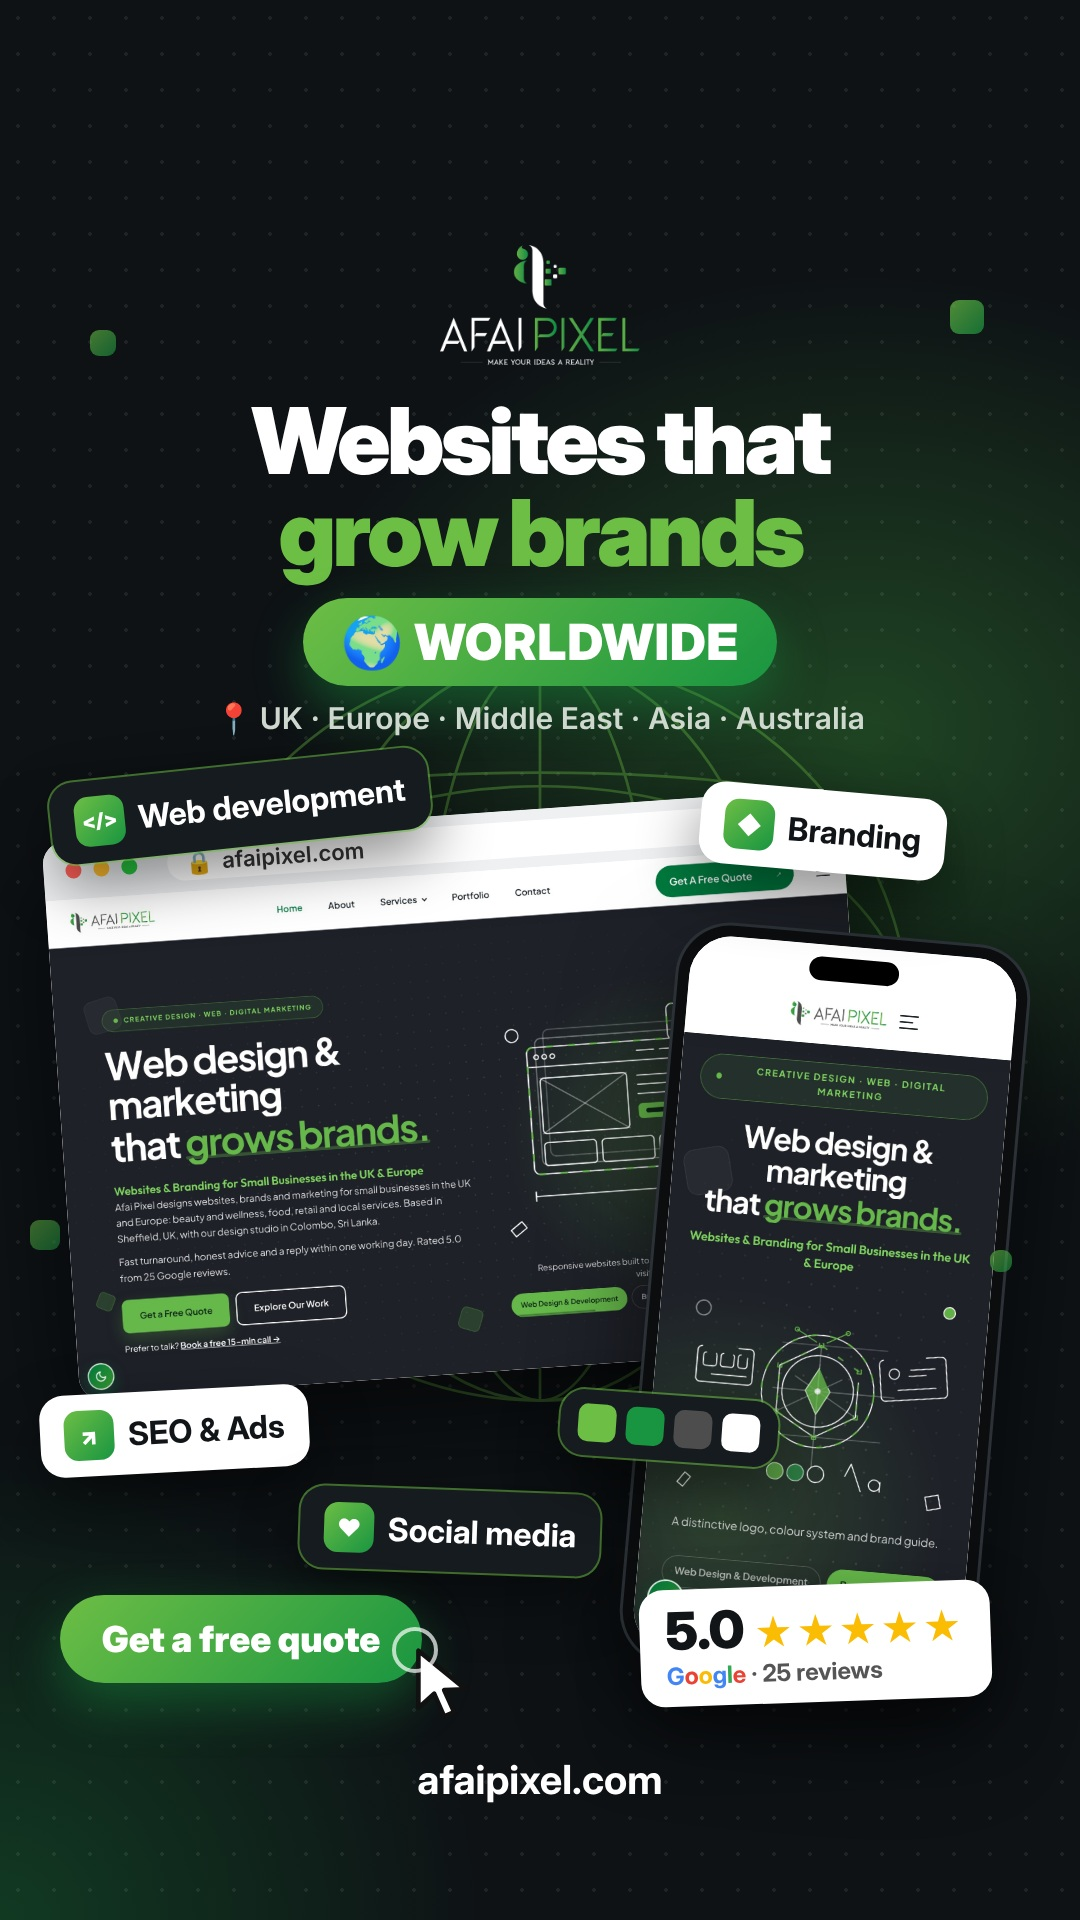
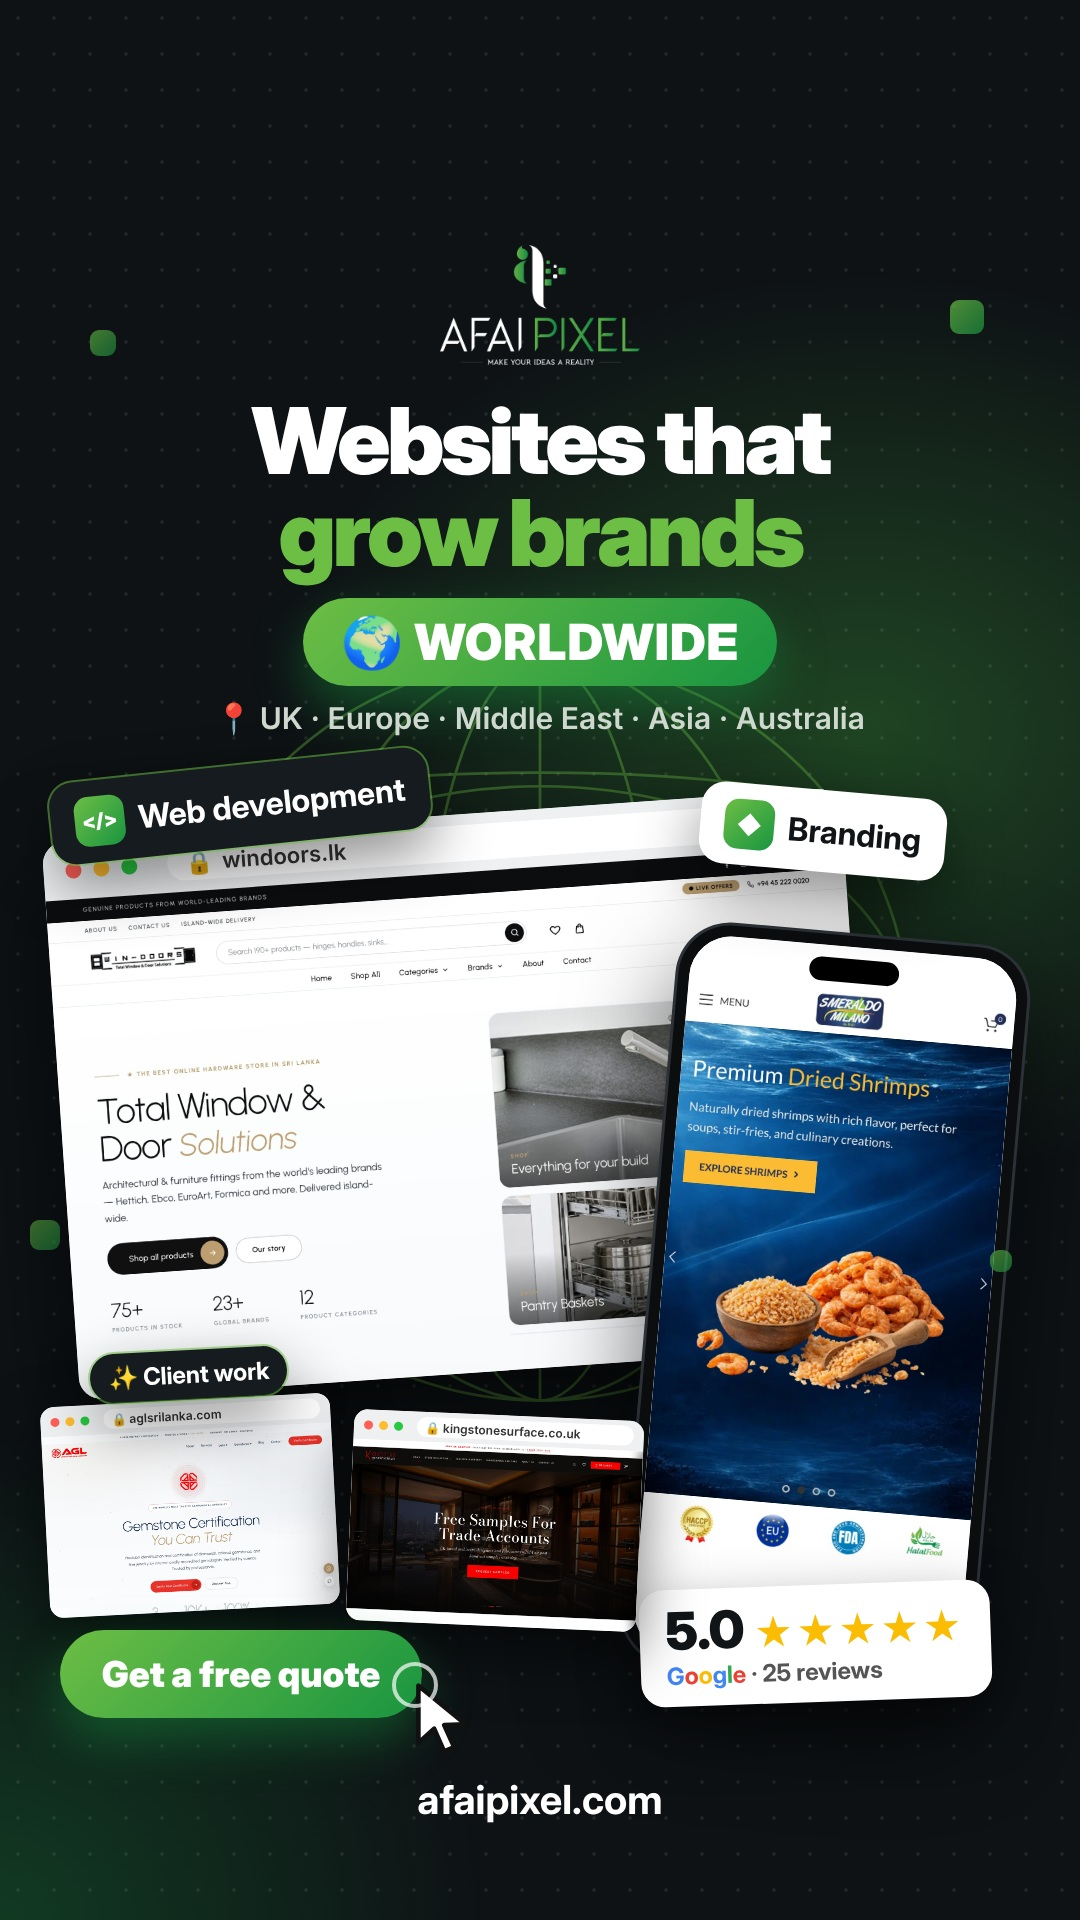
Cover: show client websites instead of afaipixel.com
Claude-Session: https://claude.ai/code/session_01TnfmFtVoRqk5z4wF8dQVU6

Changed region(s): [[0.0306, 0.4375, 0.9472, 0.9688]]

diff --git a/reel/src/cover.html b/reel/src/cover.html
@@ -42,9 +42,9 @@ body{width:1080px;height:1920px;overflow:hidden;font-family:IN,'Noto Color Emoji
 <div class="abs" style="left:60px;top:815px;width:800px;border-radius:22px;overflow:hidden;background:#fff;box-shadow:0 40px 100px rgba(0,0,0,.6);transform:rotate(-4deg)">
  <div style="height:58px;background:#eef0f2;display:flex;align-items:center;gap:12px;padding:0 22px">
   <span style="width:16px;height:16px;border-radius:50%;background:#ff5f57"></span><span style="width:16px;height:16px;border-radius:50%;background:#febc2e"></span><span style="width:16px;height:16px;border-radius:50%;background:#28c840"></span>
-  <span style="margin-left:18px;flex:1;height:36px;border-radius:18px;background:#fff;display:flex;align-items:center;gap:10px;padding:0 18px;font-weight:600;font-size:22px;color:#333"><span style="color:var(--g2)">🔒</span>afaipixel.com</span>
+  <span style="margin-left:18px;flex:1;height:36px;border-radius:18px;background:#fff;display:flex;align-items:center;gap:10px;padding:0 18px;font-weight:600;font-size:22px;color:#333"><span style="color:var(--g2)">🔒</span>windoors.lk</span>
  </div>
- <img src="assets/desktop.jpg" style="width:800px;display:block">
+ <img src="clients/wd_d.jpg" style="width:800px;display:block">
 </div>
 
 <!-- phone -->
@@ -52,28 +52,29 @@ body{width:1080px;height:1920px;overflow:hidden;font-family:IN,'Noto Color Emoji
  <div style="width:328px;height:718px;border-radius:42px;overflow:hidden;position:relative;background:#fff">
   <div style="position:absolute;top:0;left:0;right:0;height:42px;background:#fff;z-index:2"></div>
   <div style="position:absolute;top:12px;left:50%;width:90px;height:24px;margin-left:-45px;background:#000;border-radius:14px;z-index:3"></div>
-  <img src="assets/mobile_hero.jpg" style="position:absolute;top:42px;width:328px">
+  <img src="clients/sm_m.jpg" style="position:absolute;top:42px;width:328px">
  </div>
 </div>
 
 <!-- floating web elements -->
 <div class="card dk" style="left:50px;top:765px;transform:rotate(-6deg)"><span class="ic" style="font-size:20px">&lt;/&gt;</span>Web development</div>
 <div class="card" style="left:700px;top:790px;transform:rotate(5deg)"><span class="ic">◆</span>Branding</div>
-<div class="card" style="left:40px;top:1390px;transform:rotate(-3deg)"><span class="ic">↗</span>SEO &amp; Ads</div>
-<div class="card dk" style="left:300px;top:1490px;transform:rotate(2deg)"><span class="ic">♥</span>Social media</div>
 <div class="card" style="left:640px;top:1585px;transform:rotate(-2deg);flex-direction:column;align-items:flex-start;gap:4px;padding:16px 26px">
  <span style="font-size:52px;font-weight:900;line-height:1">5.0 <span style="color:#fbbc04;font-size:38px;letter-spacing:3px">★★★★★</span></span>
  <span style="font-size:24px;color:#555"><span style="color:#4285F4">G</span><span style="color:#EA4335">o</span><span style="color:#FBBC05">o</span><span style="color:#4285F4">g</span><span style="color:#34A853">l</span><span style="color:#EA4335">e</span> · 25 reviews</span>
 </div>
+<div class="abs" style="left:45px;top:1400px;width:290px;border-radius:14px;overflow:hidden;background:#fff;box-shadow:0 24px 60px rgba(0,0,0,.55);transform:rotate(-3deg)">
+ <div style="height:30px;background:#eef0f2;display:flex;align-items:center;gap:6px;padding:0 10px"><span style="width:9px;height:9px;border-radius:50%;background:#ff5f57"></span><span style="width:9px;height:9px;border-radius:50%;background:#febc2e"></span><span style="width:9px;height:9px;border-radius:50%;background:#28c840"></span><span style="margin-left:8px;flex:1;height:20px;border-radius:10px;background:#fff;font-size:12px;font-weight:600;color:#333;display:flex;align-items:center;padding:0 8px">🔒 aglsrilanka.com</span></div>
+ <img src="clients/agl_d.jpg" style="width:290px;display:block"></div>
+<div class="abs" style="left:350px;top:1415px;width:290px;border-radius:14px;overflow:hidden;background:#fff;box-shadow:0 24px 60px rgba(0,0,0,.55);transform:rotate(2.5deg)">
+ <div style="height:30px;background:#eef0f2;display:flex;align-items:center;gap:6px;padding:0 10px"><span style="width:9px;height:9px;border-radius:50%;background:#ff5f57"></span><span style="width:9px;height:9px;border-radius:50%;background:#febc2e"></span><span style="width:9px;height:9px;border-radius:50%;background:#28c840"></span><span style="margin-left:8px;flex:1;height:20px;border-radius:10px;background:#fff;font-size:12px;font-weight:600;color:#333;display:flex;align-items:center;padding:0 8px">🔒 kingstonesurface.co.uk</span></div>
+ <img src="clients/ks_d.jpg" style="width:290px;display:block"></div>
+<div class="card dk" style="left:90px;top:1350px;font-size:24px;padding:10px 18px;gap:8px;transform:rotate(-3deg);z-index:2">✨ Client work</div>
 <!-- cursor clicking a button -->
-<div class="abs" style="left:60px;top:1595px">
+<div class="abs" style="left:60px;top:1630px">
  <div style="display:inline-block;background:linear-gradient(135deg,var(--g1),var(--g3));color:#fff;font-weight:800;font-size:36px;padding:22px 42px;border-radius:999px;box-shadow:0 20px 50px rgba(25,149,65,.45)">Get a free quote</div>
  <svg style="position:absolute;left:352px;top:50px" width="70" height="80" viewBox="0 0 24 28"><path d="M2 2 L2 22 L7.5 17 L11 25 L14.5 23.5 L11 15.8 L18.5 15.5 Z" fill="#fff" stroke="#111" stroke-width="1.6" stroke-linejoin="round"/></svg>
  <div style="position:absolute;left:332px;top:32px;width:46px;height:46px;border-radius:50%;border:4px solid rgba(255,255,255,.7)"></div>
-</div>
-<!-- color swatches + code snippet -->
-<div class="card dk" style="left:560px;top:1395px;padding:14px 18px;gap:10px;transform:rotate(4deg)">
- <span style="width:38px;height:38px;border-radius:10px;background:#6dbe45"></span><span style="width:38px;height:38px;border-radius:10px;background:#199541"></span><span style="width:38px;height:38px;border-radius:10px;background:#4d4d4d"></span><span style="width:38px;height:38px;border-radius:10px;background:#fff"></span>
 </div>
 <!-- pins -->
 <div class="abs center" style="top:700px;font-weight:600;font-size:30px;color:#cfd8cf">📍 UK · Europe · Middle East · Asia · Australia</div>
@@ -84,5 +85,5 @@ body{width:1080px;height:1920px;overflow:hidden;font-family:IN,'Noto Color Emoji
 <div class="sq" style="left:30px;top:1220px;width:30px;height:30px;opacity:.5"></div>
 
 <!-- footer -->
-<div class="abs center" style="top:1755px;font-weight:700;font-size:40px;color:#fff">afaipixel.com</div>
+<div class="abs center" style="top:1775px;font-weight:700;font-size:40px;color:#fff">afaipixel.com</div>
 </div></body></html>

diff --git a/reel/README.md b/reel/README.md
@@ -1,6 +1,6 @@
 # Afai Pixel promo reel
 
-`afaipixel-reel.mp4`: 1080x1920 vertical, 30 fps, 54.4 s, H.264 + AAC. Ready for Instagram Reels, TikTok and YouTube Shorts. `cover.jpg` is a designed cover (web elements, a WORLDWIDE badge, the real site in a browser and a phone). Upload it as the reel cover.
+`afaipixel-reel.mp4`: 1080x1920 vertical, 30 fps, 54.4 s, H.264 + AAC. Ready for Instagram Reels, TikTok and YouTube Shorts. `cover.jpg` is a designed cover: web elements, a WORLDWIDE badge, and live client websites (windoors.lk, smeraldomilano.eu, aglsrilanka.com, kingstonesurface.co.uk). Upload it as the reel cover.
 
 ## Structure
 | Time | Scene | Voice-over |
